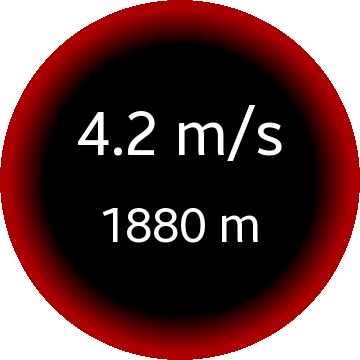
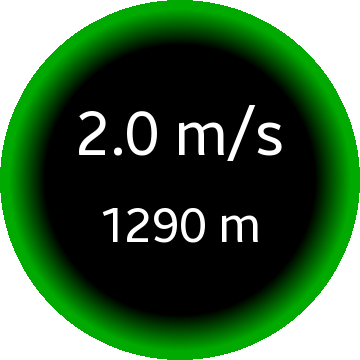
New colors after a Facebook vote!

diff --git a/src/VarioColor.cpp b/src/VarioColor.cpp
@@ -4,18 +4,30 @@
 Kystsoft::VarioColor::VarioColor()
 {
 	// add the default sound points
-	addColorPoint(-10.0f, Color(  0,   0, 255)); // blue
-	addColorPoint( -3.5f, Color(  0,   0, 255)); // blue
-	addColorPoint( -3.5f, Color(  0, 255, 255)); // cyan
-	addColorPoint( -1.5f, Color(  0, 255, 255)); // cyan
-	addColorPoint( -1.5f, Color(  0, 255,   0)); // green
-	addColorPoint(  0.0f, Color(  0, 255,   0)); // green
-	addColorPoint(  0.0f, Color(255, 255,   0)); // yellow
-	addColorPoint(  1.5f, Color(255, 255,   0)); // yellow
-	addColorPoint(  1.5f, Color(255, 165,   0)); // orange
-	addColorPoint(  3.5f, Color(255, 165,   0)); // orange
-	addColorPoint(  3.5f, Color(255,   0,   0)); // red
-	addColorPoint( 10.0f, Color(255,   0,   0)); // red
+	// red to green
+	addColorPoint(-10.0f, Color(255,   0, 255)); // magenta
+	addColorPoint( -4.0f, Color(255,   0, 255)); // magenta
+	addColorPoint( -4.0f, Color(255,   0,   0)); // red
+	addColorPoint( -2.0f, Color(255,   0,   0)); // red
+	addColorPoint( -1.0f, Color(  0,   0,   0)); // black
+	addColorPoint(  0.0f, Color(  0,   0,   0)); // black
+	addColorPoint(  1.0f, Color(  0, 255,   0)); // green
+	addColorPoint(  3.0f, Color(  0, 255,   0)); // green
+	addColorPoint(  3.0f, Color(  0, 255, 255)); // cyan
+	addColorPoint( 10.0f, Color(  0, 255, 255)); // cyan
+	// blue to red
+//	addColorPoint(-10.0f, Color(  0,   0, 255)); // blue
+//	addColorPoint( -3.5f, Color(  0,   0, 255)); // blue
+//	addColorPoint( -3.5f, Color(  0, 255, 255)); // cyan
+//	addColorPoint( -1.5f, Color(  0, 255, 255)); // cyan
+//	addColorPoint( -1.5f, Color(  0, 255,   0)); // green
+//	addColorPoint(  0.0f, Color(  0, 255,   0)); // green
+//	addColorPoint(  0.0f, Color(255, 255,   0)); // yellow
+//	addColorPoint(  1.5f, Color(255, 255,   0)); // yellow
+//	addColorPoint(  1.5f, Color(255, 165,   0)); // orange
+//	addColorPoint(  3.5f, Color(255, 165,   0)); // orange
+//	addColorPoint(  3.5f, Color(255,   0,   0)); // red
+//	addColorPoint( 10.0f, Color(255,   0,   0)); // red
 }
 
 // TODO: Consider removing
@@ -36,6 +48,24 @@ Kystsoft::Color Kystsoft::VarioColor::color(float climb) const
 	float x2 = colorPoints[i+1].climb;
 	float y1 = colorPoints[i].color.hue();
 	float y2 = colorPoints[i+1].color.hue();
+	if (y1 == Color::hueUndefined || y2 == Color::hueUndefined)
+	{
+		// interpolate RGBA values
+		y1 = colorPoints[i].color.red();
+		y2 = colorPoints[i+1].color.red();
+		float R = y1 + (y2 - y1) / (x2 - x1) * (x - x1);
+		y1 = colorPoints[i].color.green();
+		y2 = colorPoints[i+1].color.green();
+		float G = y1 + (y2 - y1) / (x2 - x1) * (x - x1);
+		y1 = colorPoints[i].color.blue();
+		y2 = colorPoints[i+1].color.blue();
+		float B = y1 + (y2 - y1) / (x2 - x1) * (x - x1);
+		y1 = colorPoints[i].color.alpha();
+		y2 = colorPoints[i+1].color.alpha();
+		float A = y1 + (y2 - y1) / (x2 - x1) * (x - x1);
+		return Color(R,G,B,A);
+	}
+	// interpolate HSLA values
 	float H = y1 + (y2 - y1) / (x2 - x1) * (x - x1);
 	y1 = colorPoints[i].color.saturationHSL();
 	y2 = colorPoints[i+1].color.saturationHSL();
